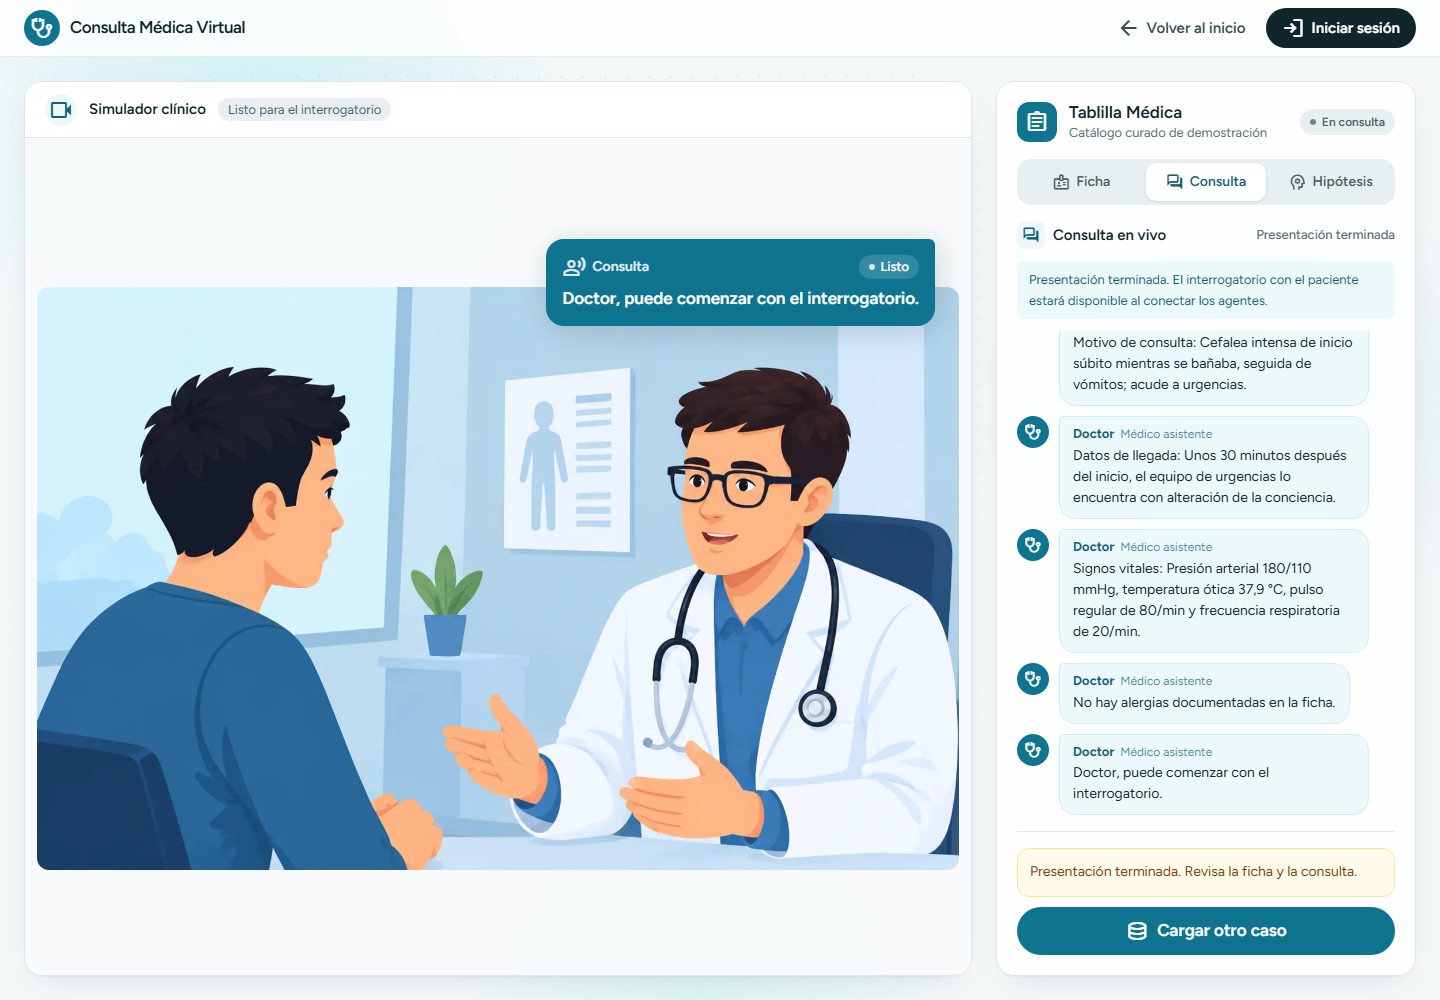
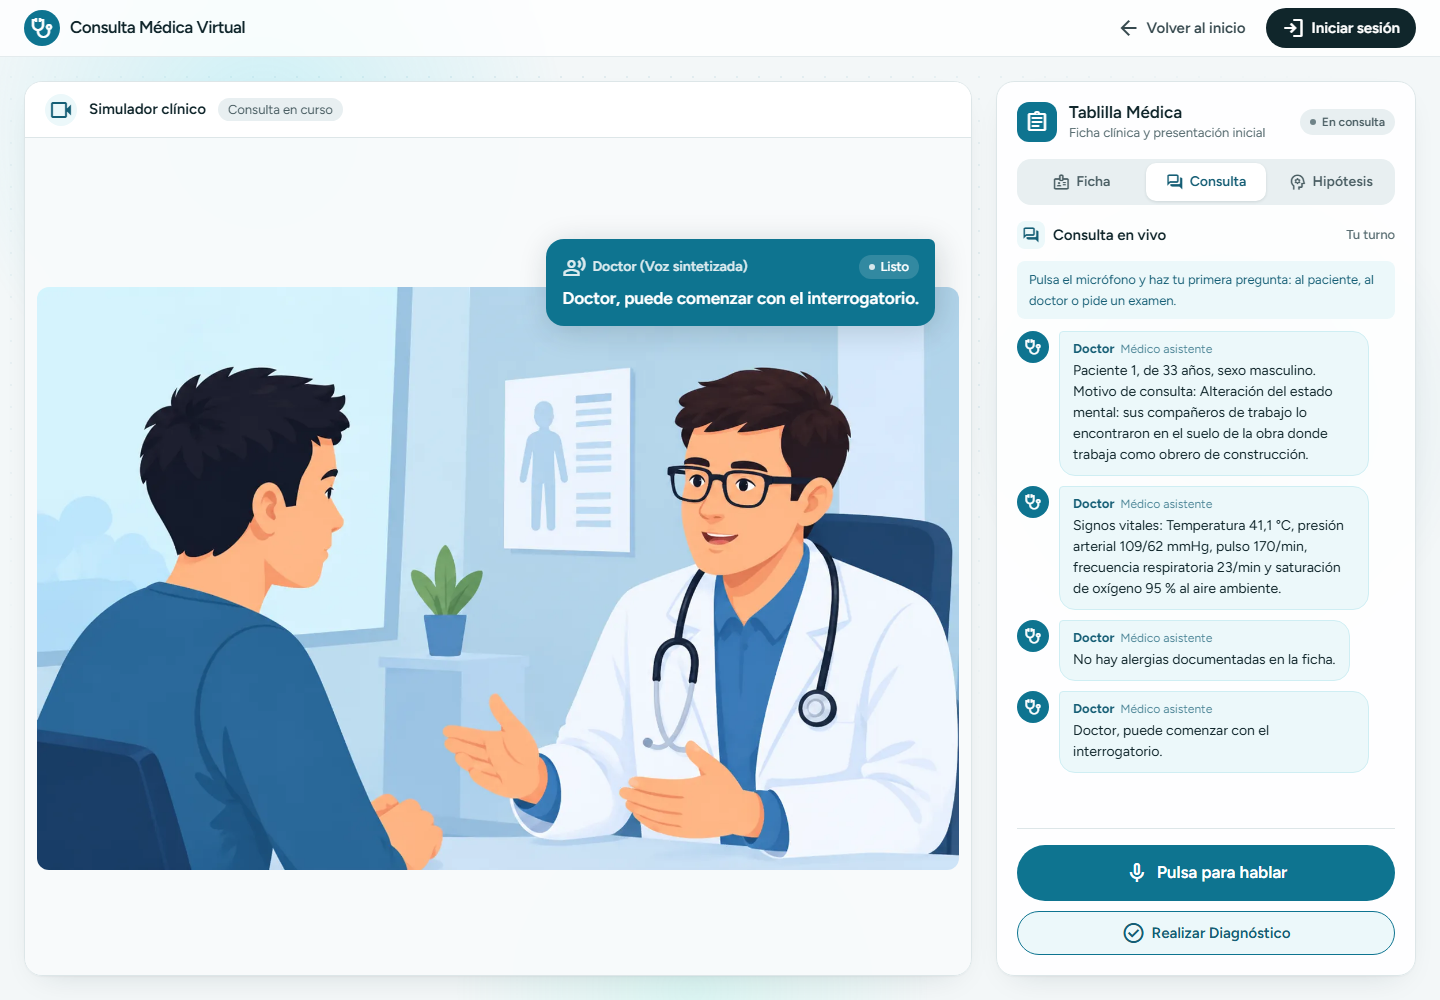
Avisos de estado ocultos al estudiante y pruebas del navegador sin audio

diff --git a/frontend/public/simulacion.html b/frontend/public/simulacion.html
@@ -267,7 +267,7 @@
       </div>
 
       <div class="pt-4 border-t border-slate-200 flex flex-col gap-2.5">
-        <p data-role="case-status" class="rounded-xl border border-amber-200 bg-amber-50 p-3 text-sm leading-relaxed text-amber-900" role="status" aria-live="polite">
+        <p data-role="case-status" hidden class="hidden rounded-xl border border-amber-200 bg-amber-50 p-3 text-sm leading-relaxed text-amber-900" role="status" aria-live="polite">
           Comprobando la disponibilidad de casos...</p>
         <button data-role="start-simulation" disabled
           class="w-full h-12 px-4 rounded-full bg-accent-600 text-white text-[17px] font-semibold transition-colors duration-200 flex items-center justify-center gap-2 disabled:cursor-not-allowed disabled:opacity-50"

diff --git a/frontend/public/js/simulacion.js b/frontend/public/js/simulacion.js
@@ -95,9 +95,12 @@ document.addEventListener('DOMContentLoaded', async () => {
     });
   });
 
+  // Los avisos de estado no se muestran al estudiante; el recuadro solo aparece ante un error.
   const setStatus = (message, isError = false) => {
     if (!statusMessage) return;
     statusMessage.textContent = message;
+    statusMessage.hidden = !isError;
+    statusMessage.classList.toggle('hidden', !isError);
     statusMessage.classList.toggle('border-amber-200', !isError);
     statusMessage.classList.toggle('bg-amber-50', !isError);
     statusMessage.classList.toggle('text-amber-900', !isError);

diff --git a/pruebas/09_narracion_simulador/README.md b/pruebas/09_narracion_simulador/README.md
@@ -58,6 +58,15 @@ Como en el simulador original (`f0881ca`): al terminar la presentación desapare
   [sin_agentes_terminal.png](sin_agentes_terminal.png). El único error de consola es el 404 de
   `/api/ai/sessions`, que en esta rama no existe.
 
+## Avisos de estado ocultos (intento 4)
+
+- El recuadro de avisos del panel («Especialidad: … Pulsa «Iniciar simulación»…», «Consulta en
+  curso…») ya no se muestra al estudiante; solo aparece ante un error (por ejemplo, servidor no
+  disponible). [portada_3_simulador_listo.png](portada_3_simulador_listo.png): al entrar solo se ve
+  «Iniciar simulación».
+- Los scripts de prueba abren el navegador con `--mute-audio`: el navegador automático también usa la
+  voz del sistema y cada prueba sonaba en el equipo.
+
 ## Evidencia
 
 - Intento 2 (sin código del caso): [portada_3_simulador_listo.png](portada_3_simulador_listo.png) (al
